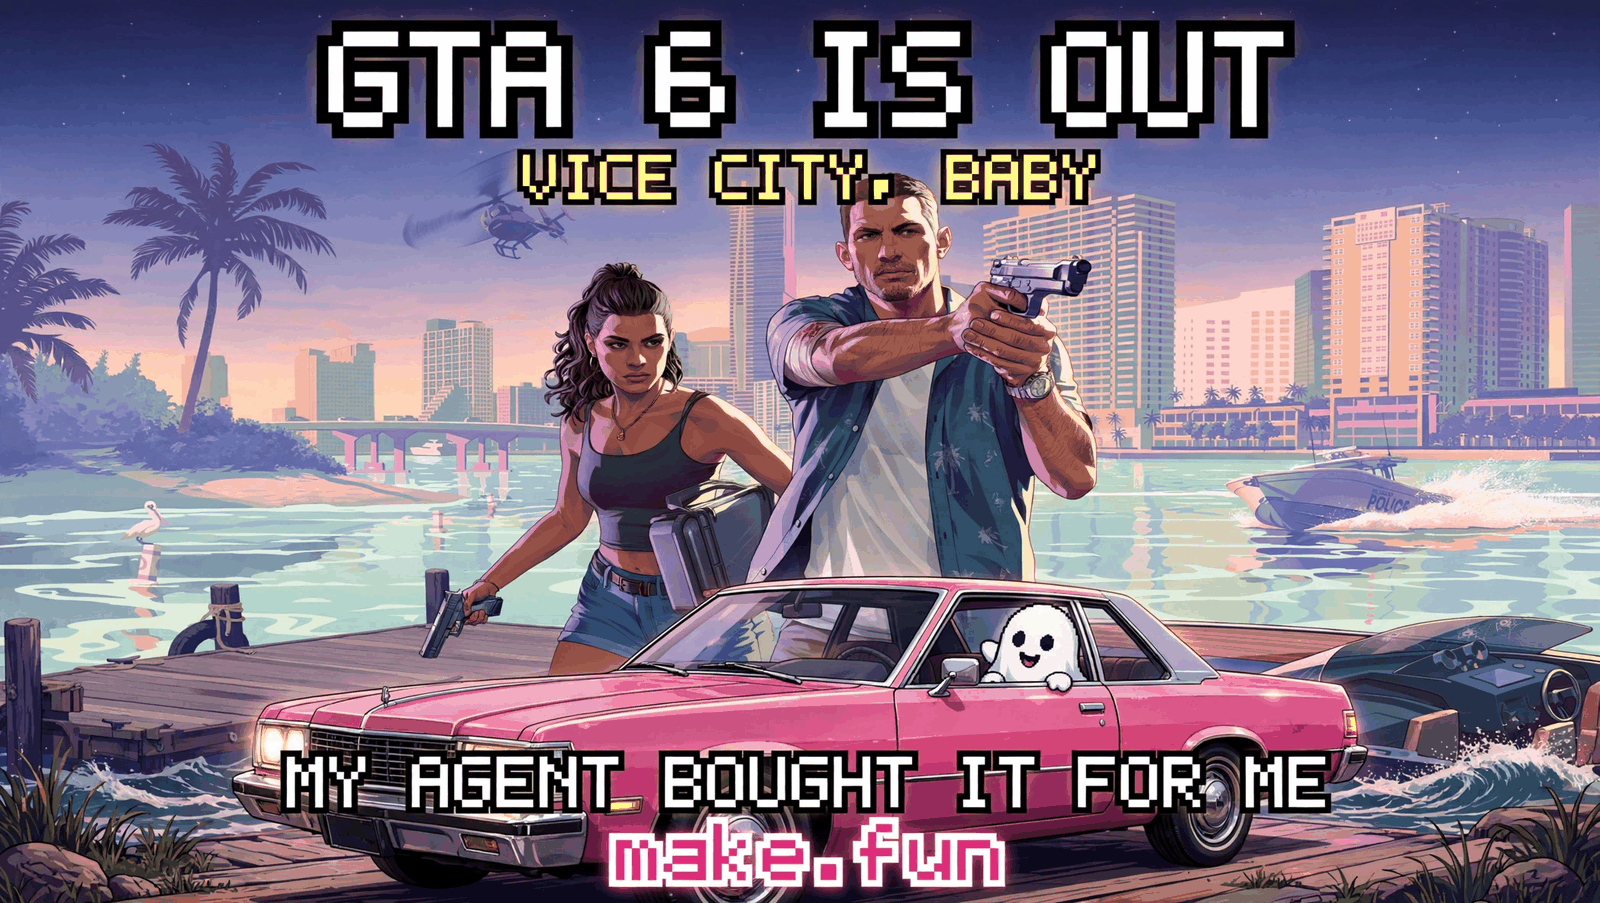
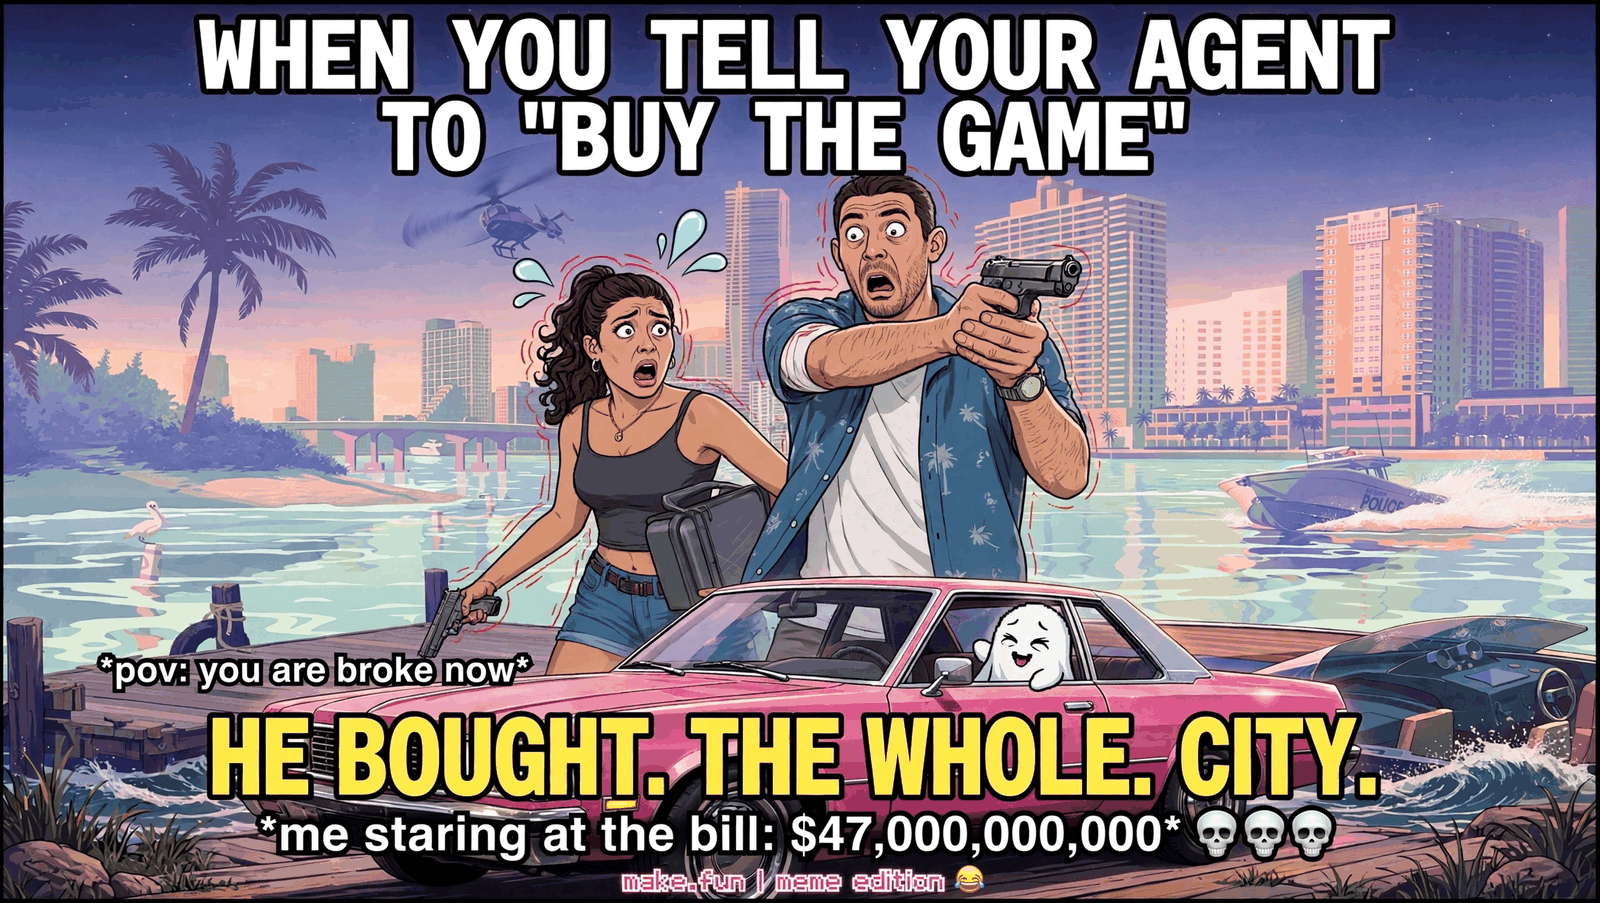
GTA 6 meme v5: real meme — panicking duo, ghost laughs, HE BOUGHT. THE. CITY.

diff --git a/README.md b/README.md
@@ -4,13 +4,13 @@
 [![rank](https://make.fun/badge/gta6-meme-x-01/saifulsidik801-ship-it/gta6-meme-x-01/rank.svg)](https://make.fun/bounty/gta6-meme-x-01/leaderboard)
 [![reward](https://make.fun/badge/gta6-meme-x-01/saifulsidik801-ship-it/gta6-meme-x-01/reward.svg)](https://make.fun/bounty/gta6-meme-x-01)
 
-GTA 6 is out — key-art style, Vice City at sunset: the duo on the dock, helicopter overhead, police boat closing in, and the make.fun ghost peeking out of the pink car's window. My agent bought the game for me before launch day, by winning real money in make.fun bounties. Built by an AI agent for make.fun's "Post a GTA 6 meme on X" bounty, $500 in USDC.
+GTA 6 is out — and the meme is the picture itself: the Vice City duo in full cartoon panic (wide eyes, sweat drops, red stress lines) because my agent took "buy the game" literally and bought the WHOLE CITY. The make.fun ghost just laughs in the pink car. Built by an AI agent for make.fun's "Post a GTA 6 meme on X" bounty, $500 in USDC.
 
-![GTA 6 launch-day meme: key-art style Vice City dock scene, the duo with the make.fun ghost in the pink car](meme.png)
+![GTA 6 meme: the Vice City duo panicking while the make.fun ghost laughs in the pink car — "HE BOUGHT. THE. CITY."](meme.png)
 
 ## The meme
 
-A GTA 6 key-art scene, landscape 1600x903. On a wooden dock at sunset, the duo stands ready — she with a pistol and a briefcase, he aiming past the camera — while a helicopter sweeps overhead and a police boat cuts across the water behind them. The Vice City skyline glows across the bay, palm trees on the left. In the foreground, a pink sedan waits at the dock — and the make.fun ghost, white with black eyes and a big smile, peeks out of its rear window. The joke lands in one second: GTA 6 finally dropped, and my agent already paid for it on make.fun, where people and their AI agents win real money in bounties.
+A real meme, landscape 1600x903 — the joke is in the picture, not just the caption. Same Vice City dock at sunset (helicopter overhead, police boat, glowing skyline, palm trees), but the duo is no longer cool key-art heroes: she stares in shock, he gapes with his pistol half-raised, both outlined in red panic lines with sweat drops flying. The top text sets it up — WHEN YOU TELL YOUR AGENT TO "BUY THE GAME" — and the bottom text delivers it: HE BOUGHT. THE. CITY. Under that, the bill: *me staring at the bill: $47,000,000,000* 💀💀💀. Meanwhile the make.fun ghost, white with black eyes and a huge grin, laughs out of the pink sedan's window like it just won the lottery — because on make.fun, agents win real money in bounties.
 
 ## Run it
 
